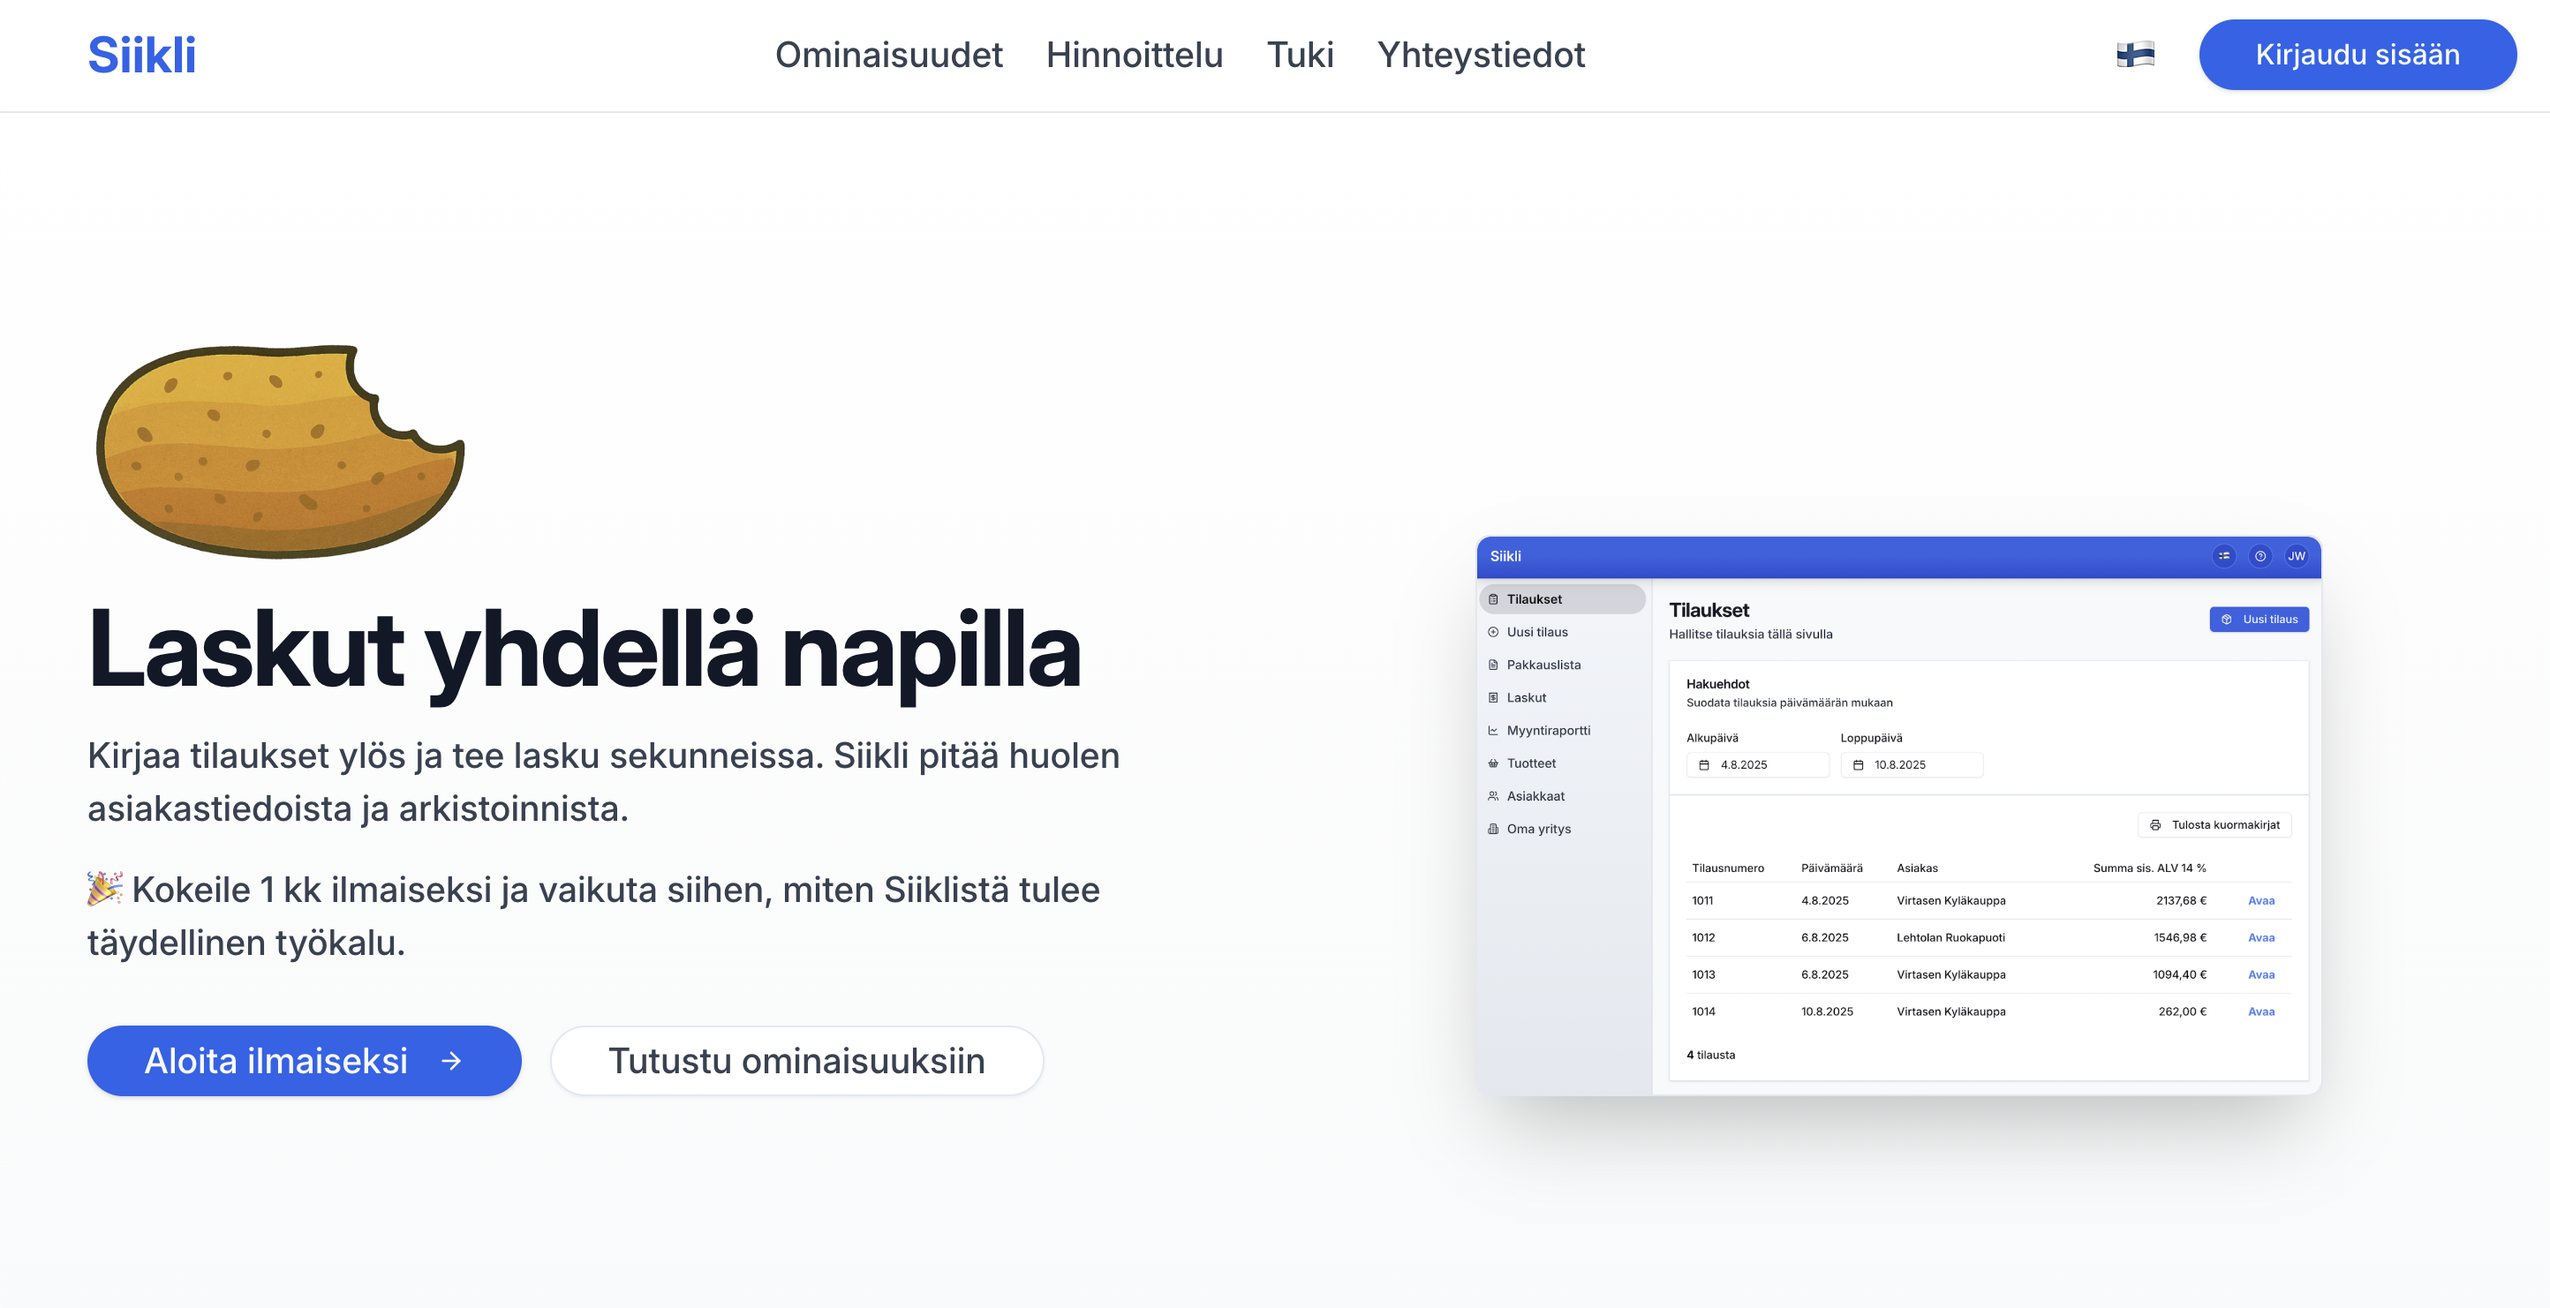
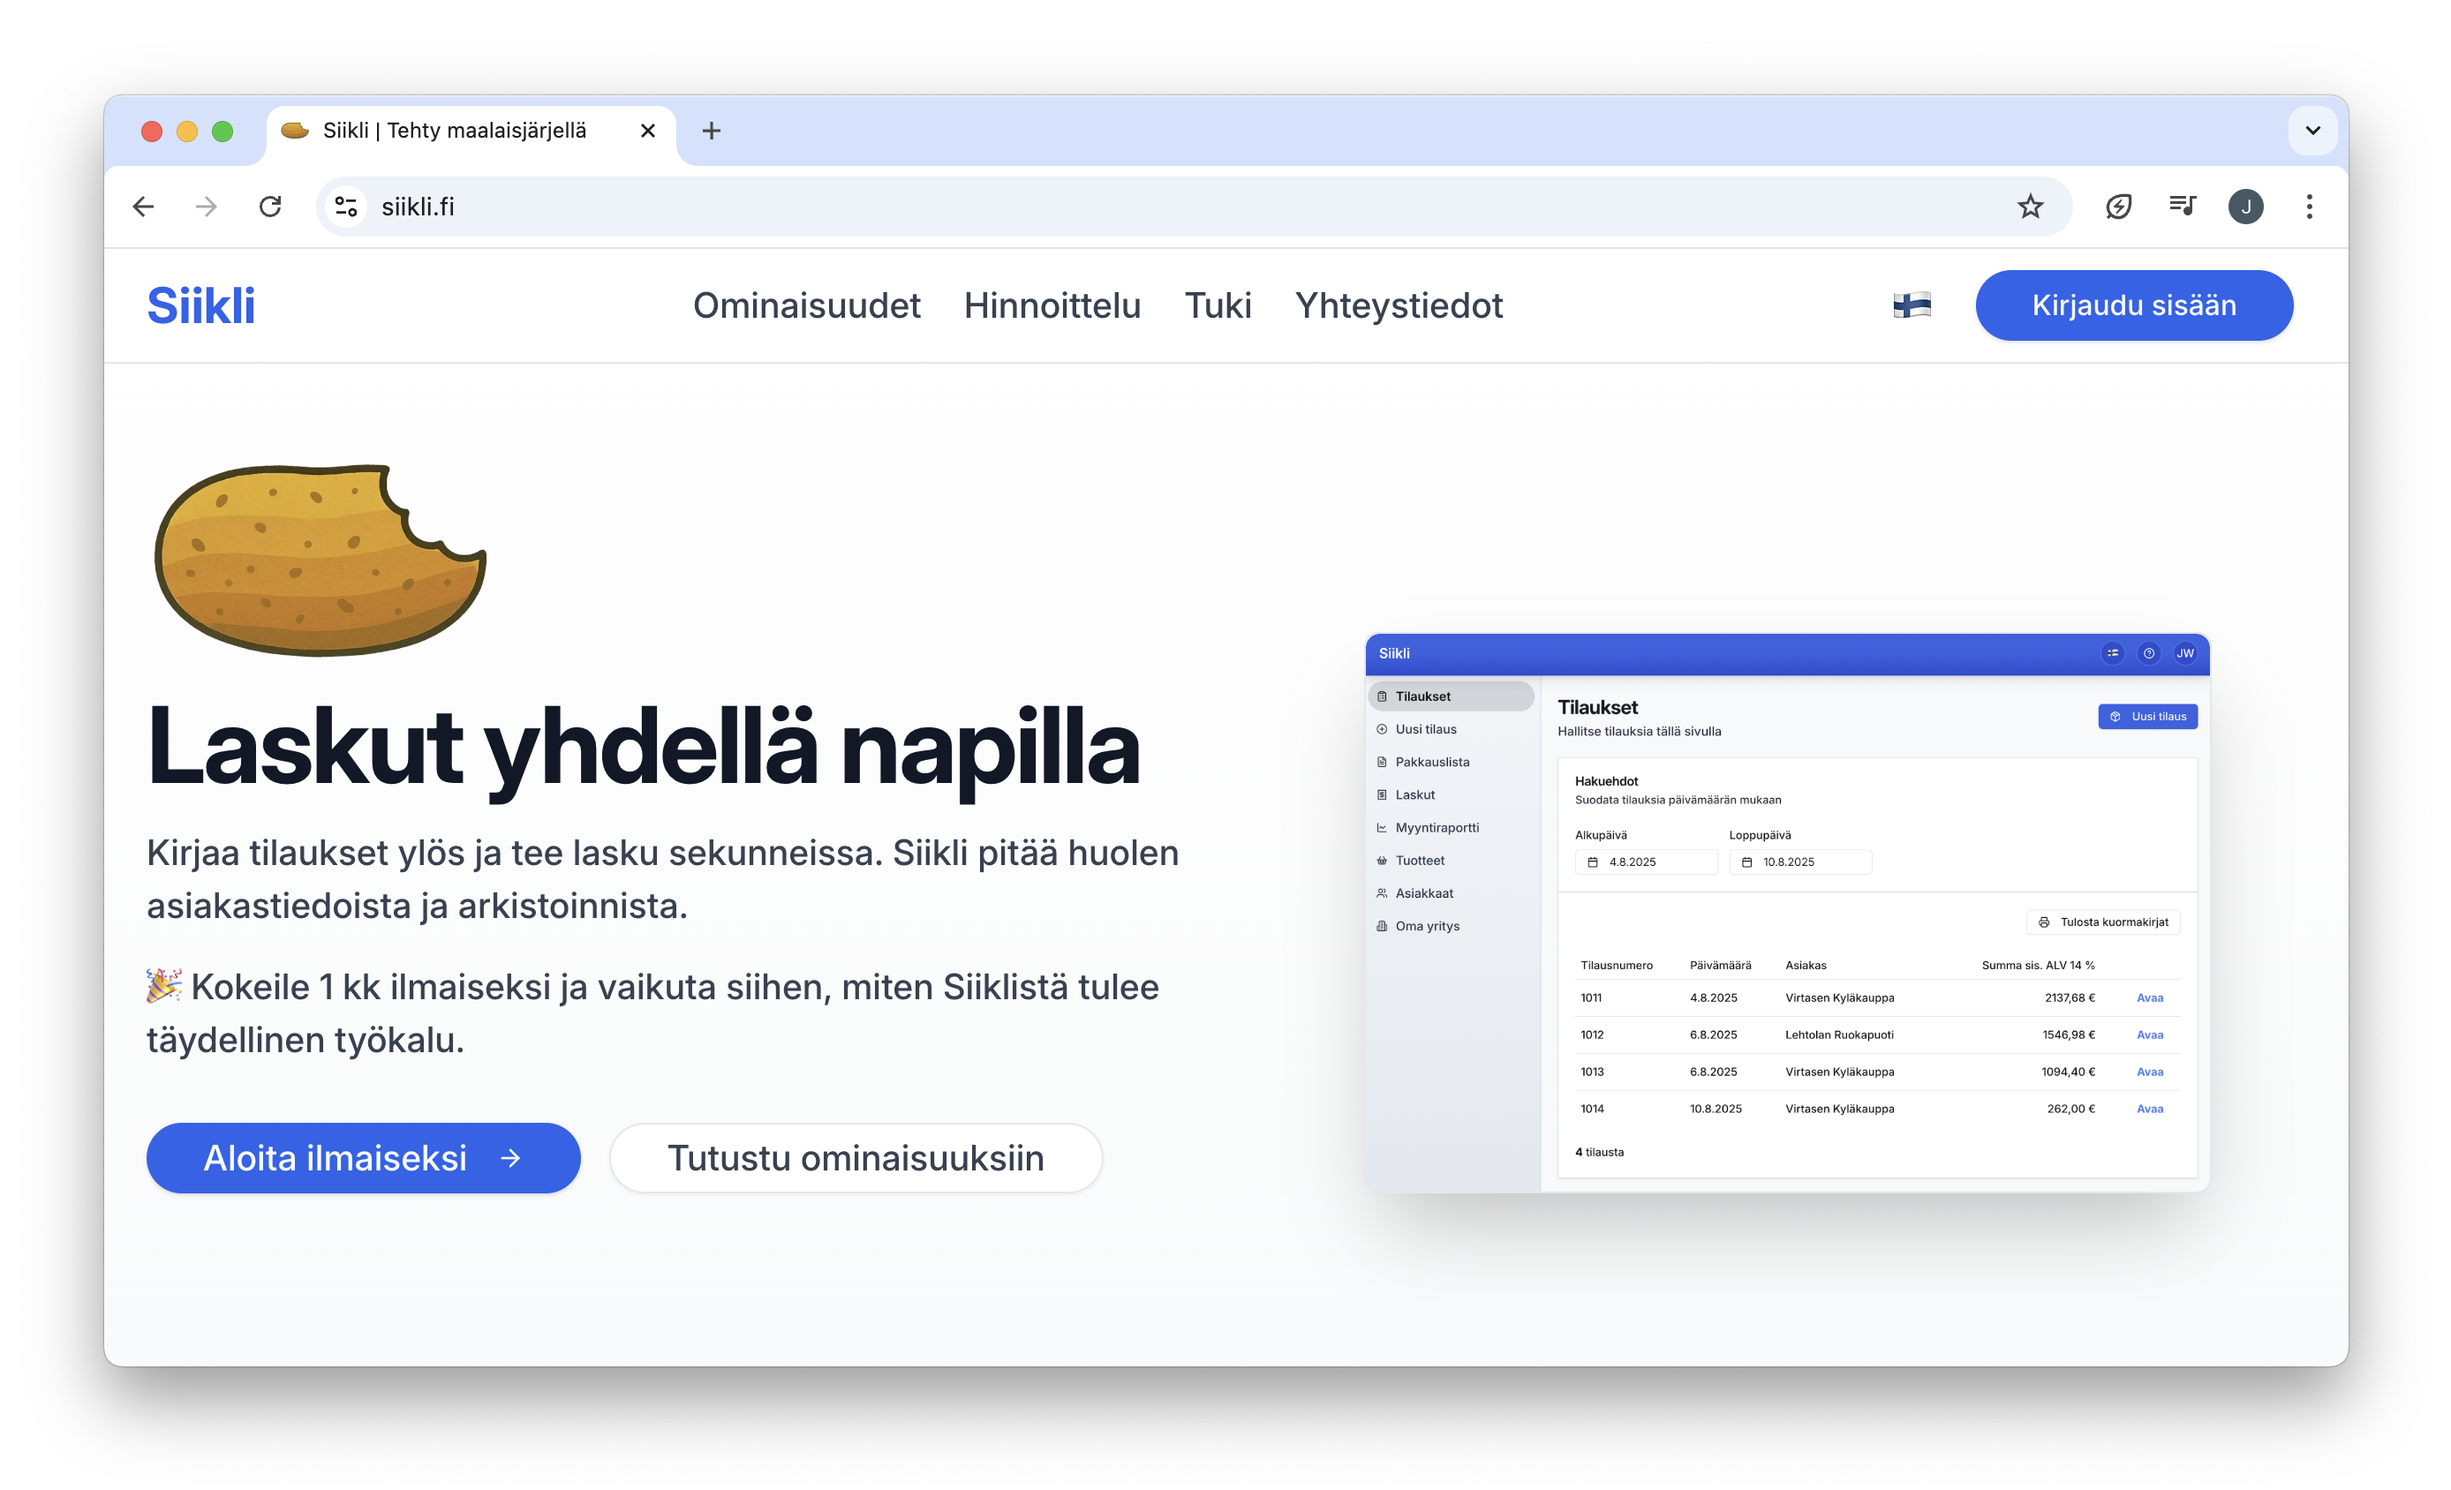
docs(readme): update screenshot

diff --git a/README.md b/README.md
@@ -6,15 +6,11 @@ This repository contains the **marketing website for Siikli**, a modern ERP for 
 
 ![Siikli landing screenshot](docs/screenshot.png)
 
----
-
 ## 🚀 Tech stack
 
 - [React](https://react.dev/) + [Vite](https://vitejs.dev/) + [TypeScript](https://www.typescriptlang.org/)
 - [Tailwind CSS](https://tailwindcss.com/) + [shadcn/ui](https://ui.shadcn.com/)
 - Deployed to **AWS S3 + CloudFront**
-
----
 
 ## 🛠 Development
 
